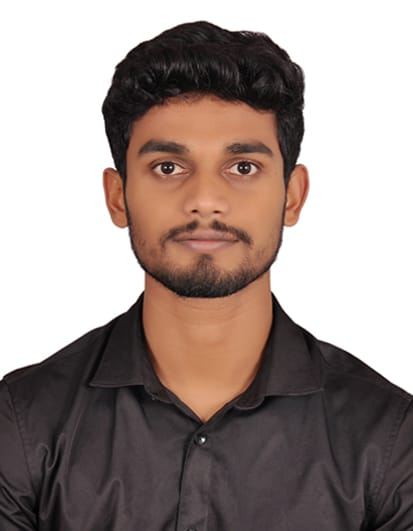
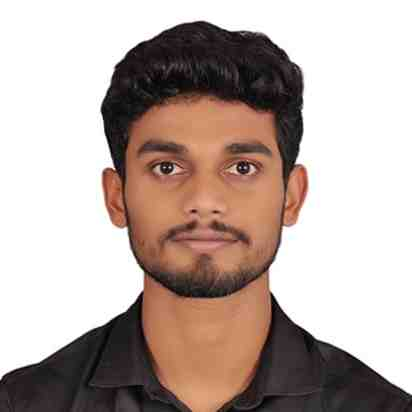
website updates

diff --git a/src/components/Timeline/Timeline.jsx b/src/components/Timeline/Timeline.jsx
@@ -1,30 +1,37 @@
 import React from "react";
-import "./Timeline.css";
-import timelineElements from "./timelineElements";
 import {
   VerticalTimeline,
   VerticalTimelineElement,
 } from "react-vertical-timeline-component";
 import "react-vertical-timeline-component/style.min.css";
+import "./Timeline.css";
+import timelineElements from "./timelineElements";
 
 import sponsorbg from "../../assets/sponsorBg.png";
 
 function Timeline() {
-  const workIconStyles = { background: "#939AFF"};
-  const schoolIconStyles = { background: "#EC6548"};
-  
+  const workIconStyles = { background: "#939AFF" };
+  const schoolIconStyles = { background: "#EC6548" };
+
   return (
-    <section
-      id="Timeline"
-      className="flex-col text-white text-3xl h-auto flex items-center justify-center ti-bg"
-    >
-      <img className="absolute z-10 mt-[-500%] sm:mt-[-450%] md:mt-[-250%] xl:mt-[-175%]" src={sponsorbg} />
-      <p className="flex-col flex items-center justify-center text-7xl mb-[5%] mt-[140%] md:mt-[70%] xl:mt-[28%] font-roboto">Timeline</p>
+    <section className="flex-col text-white text-3xl h-auto flex items-center justify-center ti-bg">
+      <img
+        className="absolute z-10 mt-[-500%] sm:mt-[-450%] md:mt-[-250%] xl:mt-[-175%]"
+        src={sponsorbg}
+      />
+      <p className="flex-col flex items-center justify-center text-7xl mb-[5%] mt-[140%] md:mt-[70%] xl:mt-[28%] font-roboto">
+        Timeline
+      </p>
       <div>
-        <VerticalTimeline layout="1-column-left" lineColor="rgba(13, 15, 22, 0.1)">
+        <VerticalTimeline
+          layout="1-column-left"
+          lineColor="rgba(13, 15, 22, 0.1)"
+        >
           {timelineElements.map((element) => {
             const isWorkIcon = element.icon === "work";
-            const titleColor = isWorkIcon ? workIconStyles.background : schoolIconStyles.background;
+            const titleColor = isWorkIcon
+              ? workIconStyles.background
+              : schoolIconStyles.background;
 
             return (
               <VerticalTimelineElement
@@ -32,22 +39,30 @@ function Timeline() {
                 // date={element.date}
                 // dateClassName="date"
                 iconStyle={isWorkIcon ? workIconStyles : schoolIconStyles}
-                icon={isWorkIcon ? (
-                  <img src="./Images/work.svg" alt="work icon" />
-                ) : (
-                  <img src="./Images/school.svg" alt="school icon" />
-                )}
-                contentStyle={{ background: 'rgba(13, 15, 22)', color: '#fff'}}
+                icon={
+                  isWorkIcon ? (
+                    <img src="./Images/work.svg" alt="work icon" />
+                  ) : (
+                    <img src="./Images/school.svg" alt="school icon" />
+                  )
+                }
+                contentStyle={{ background: "rgba(13, 15, 22)", color: "#fff" }}
                 className="vertical-timeline-element"
               >
-              <div className="">
-                <h1 className="vertical-timeline-element-title font-roboto" style={{ color: titleColor }}>{element.title}</h1>
-                <div className="h-[10%] w-full xl:w-[50%] xl:ml-[2%] bg-gray-400 rounded-md bg-clip-padding backdrop-filter backdrop-blur-sm bg-opacity-10"
-                  style={{ fontFamily: "Fira Code, monospace" }}
-                >
-                  <p id="description">{element.description}</p>
+                <div className="">
+                  <h1
+                    className="vertical-timeline-element-title font-roboto"
+                    style={{ color: titleColor }}
+                  >
+                    {element.title}
+                  </h1>
+                  <div
+                    className="h-[10%] w-full xl:w-[50%] xl:ml-[2%] bg-gray-400 rounded-md bg-clip-padding backdrop-filter backdrop-blur-sm bg-opacity-10"
+                    style={{ fontFamily: "Fira Code, monospace" }}
+                  >
+                    <p id="description">{element.description}</p>
+                  </div>
                 </div>
-              </div>
               </VerticalTimelineElement>
             );
           })}

diff --git a/src/components/Timeline/Timeline2.jsx b/src/components/Timeline/Timeline2.jsx
@@ -9,7 +9,7 @@ import cakeIcon from "./svgs/cakeIcon.svg";
 import "./timelineA.css";
 const TimelineA = (props) => {
   return (
-    <section className="py-32 spiral">
+    <section id="Timeline" className="py-32 spiral">
       <img className="absolute mt-[-10%] z-[-1] " src={sponsorbg} />
       <div className="text-white mt-[1.5rem] md:mt-[4rem] text-[50px] md:text-[72px] font-roboto text-center font-medium ">
         Timeline
@@ -46,7 +46,7 @@ const TimelineA = (props) => {
                   Registrations begin
                 </div>
               </div>
-              <div className="font-fira text-xs  md:text-[15px] glassmorphic p-5 md:max-w-[60%] mr-10 mt-4">
+              <div className="font-fira text-xs  md:text-[15px] glassmorphic p-5 md:max-w-[60%] mr-10 mt-4 xl:ml-[10%]">
                 Explore the exciting world of technology and innovation. Unleash
                 your creative potential and build something extraordinary. Join
                 us on September 11th for a hackaethon like no other!"
@@ -65,7 +65,7 @@ const TimelineA = (props) => {
             />
           </div>
           <div className="w-11/12">
-            <div className="flex flex-col md:mt-[20rem] md:pt md:ml-10 xl:ml-5 justify-start text-white pl-4 md:pl-0">
+            <div className="flex flex-col md:mt-[20rem] md:pt md:ml-10 xl:ml-5 justify-start text-white pl-5 md:pl-2">
               <div className="">
                 <div className="font-light md:mt-[-15px] text-xs md:text-sm text-white ">
                   {" "}
@@ -76,7 +76,7 @@ const TimelineA = (props) => {
                 </div>
               </div>
 
-              <div className="font-fira text-xs  md:text-[15px]  glassmorphic p-5 md:max-w-[60%] mr-10 mt-4">
+              <div className="font-fira text-xs  md:text-[15px]  glassmorphic p-5 md:max-w-[60%] mr-10 mt-4 xl:ml-[10%]">
                 Stay tuned for October 12th! In one month, we'll reveal the top
                 50 teams joining our offline 36-hour hackathon. Get ready for
                 their creative innovations!
@@ -130,7 +130,7 @@ const TimelineA = (props) => {
                       <td>Hackathon Begins </td>
                     </tr>
                     <tr>
-                      <td> 11:00pm - 12:30pm</td>
+                      <td> 11:00pm - 12:30am</td>
                       <td>First Round of evaluation </td>
                     </tr>
                   </tbody>
@@ -230,7 +230,7 @@ const TimelineA = (props) => {
                       <td>Hackathon Stops </td>
                     </tr>
                     <tr>
-                      <td>9:00am-11:30pm </td>
+                      <td>9:00am-11:30am </td>
                       <td>Final Round of Evaluation </td>
                     </tr>
                   </tbody>

diff --git a/src/components/Hero/Hero.jsx b/src/components/Hero/Hero.jsx
@@ -33,8 +33,12 @@ const Hero = () => {
     });
 
     // Initialize Typed.js inside this useEffect
-    typedRef.current = new Typed('.typed-text', {
-      strings: ["Let the Hack Begin;", "Technology beyond Imagination;", "Hack On: Nov 2nd - 4th"],
+    typedRef.current = new Typed(".typed-text", {
+      strings: [
+        "Let the Hack Begin;",
+        "Technology beyond Imagination;",
+        "Hack On: Nov 2nd - 4th",
+      ],
 
       typeSpeed: 60,
       backSpeed: 25,
@@ -59,7 +63,7 @@ const Hero = () => {
       <div className="hero min-h-screen flex flex-col items-center justify-center text-white">
         <div className="text-center mt-20">
           <div className="my-24">
-            <div className="text-center mb-2 text-sm sm:text-md md:text-2xl lg:text-3xl neon">
+            <div className="text-center mb-2 text-sm sm:text-md md:text-2xl lg:text-3xl neon font-semibold">
               36 Hours National Level Offline Hackathon
             </div>
 

diff --git a/src/data/faqData.js b/src/data/faqData.js
@@ -1,7 +1,7 @@
 export const data = [
   {
     faq: "When will REVA HACK 2023 take place?",
-    ans: "REVA HACK 2023 is scheduled for 2nd-4th of November over 48 hours accompanied by various pre-events like learnathons, workshops, etc.",
+    ans: "REVA HACK 2023 is scheduled for 2nd-4th of November over 36 hours accompanied by various pre-events like learnathons, workshops, etc.",
   },
   {
     faq: "Is it a remote or an on-site Hackathon?",

diff --git a/src/components/Sponsors/SponsorBox.jsx b/src/components/Sponsors/SponsorBox.jsx
@@ -4,7 +4,7 @@ import "./Sponsers.css";
 
 const SponsorBox = (props) => {
   return (
-    <div className="slide glassmorphic mx-[5px] md:mx-[10px]  flex items-center">
+    <div className="slide glassmorphic mx-[5px] md:mx-[10px] flex items-center">
       <img src={props.image} alt={props.alt} />
     </div>
   );

diff --git a/src/components/Crew/components/HRC.jsx b/src/components/Crew/components/HRC.jsx
@@ -1,6 +1,6 @@
 import React from "react";
 import aryan from "../Photos/Aryan.png";
-import gaurav from "../Photos/Gaurav.jpg";
+import gaurav from "../Photos/Gaurav.webp";
 import nagesh from "../Photos/NageshPatil.jpg";
 import aashish from "../Photos/Niishith.jpg";
 import samuel from "../Photos/Samuel.jpg";

diff --git a/src/components/Prizes/Prizes.jsx b/src/components/Prizes/Prizes.jsx
@@ -33,7 +33,7 @@ function Prizes() {
               TOTAL PRIZE POOL OF
             </p>
             <p className="text-3xl sm:text-4xl md:text-5xl lg:text-6xl xl:text-8xl mb-[5%]">
-              ₹ 5,00,000
+              ₹ 2,00,000
             </p>
           </div>
         </div>

diff --git a/src/components/Sponsors/Sponsers.css b/src/components/Sponsors/Sponsers.css
@@ -53,9 +53,9 @@
 }
 
 .slider .slide {
-  height: 60px;
+  height: 75px;
   width: 250px;
-  padding: 10px 20px;
+  padding: 20px 20px;
 }
 
 /* 
@@ -183,6 +183,9 @@ second slider
 }
 
 @media (max-width: 600px) {
+  .slider {
+    width: 90%;
+  }
   .title-sponsor {
     width: 40%;
   }

diff --git a/src/App.jsx b/src/App.jsx
@@ -33,7 +33,7 @@ const App = () => {
         />
       </div>
       <div
-        className="block md:hidden fixed top-20 left-0"
+        className="block md:hidden absolute top-20 left-0"
         style={{ zIndex: 9999 }}
       >
         <img

diff --git a/src/data/teamsData.js b/src/data/teamsData.js
@@ -359,7 +359,7 @@ export const teams = [
     },
     member4: {
       photo: "Images/man.png",
-      name: "",
+      name: "Rohith R      ",
       insta: "",
       github: "",
       linkedin: "",

diff --git a/src/components/Crew/components/Card.css b/src/components/Crew/components/Card.css
@@ -55,7 +55,9 @@
   background: rgb(255, 255, 255);
 }
 .card-photo img {
+  position: relative;
   width: 100%;
+  height: 100%;
   border-radius: 16px;
   object-fit: cover;
 }
